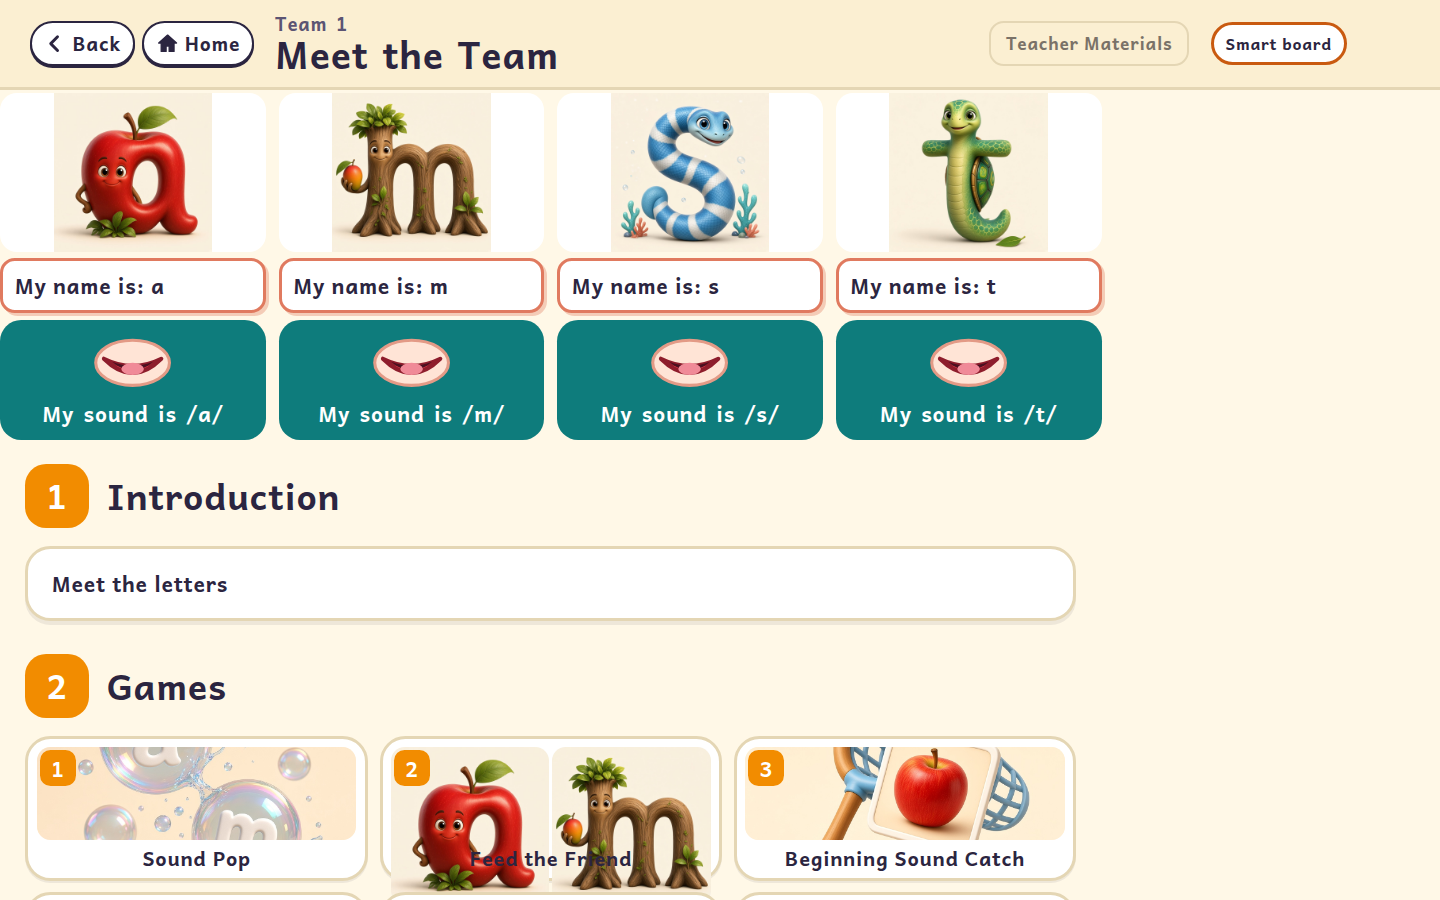
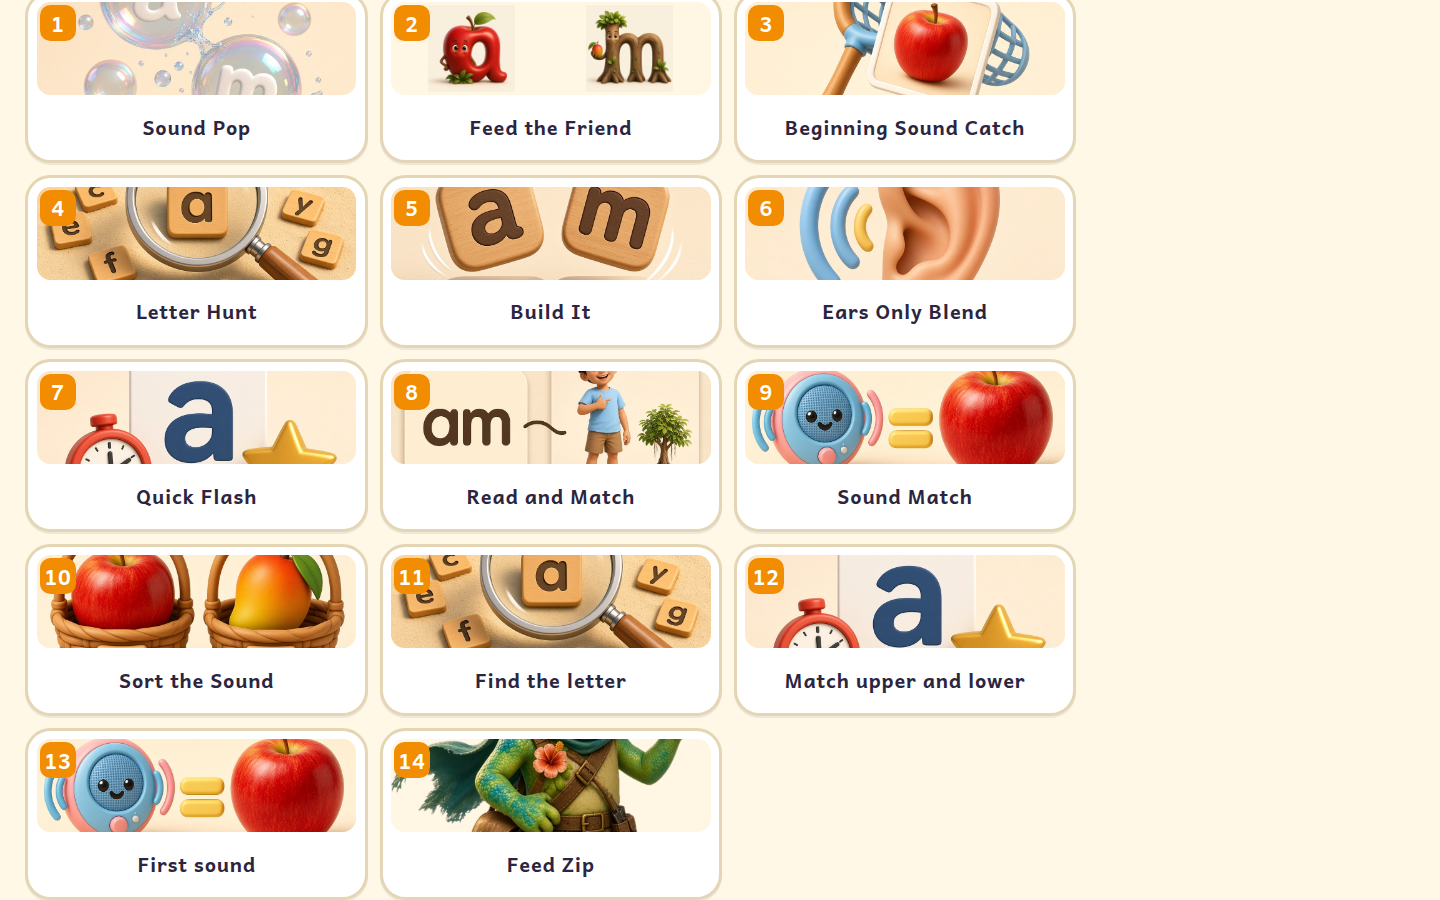
Keep Feed the Friend inside the same game-card picture box.
Addie and Manny stay contained above the title, and every game card in the grid is the same size.

diff --git a/styles.css b/styles.css
@@ -2652,11 +2652,14 @@ html.teach .u5step .itext{font-size:32px}
   .fs-home.gridhome .mwrap > .hbanner .grownwrap{position:static;transform:none;max-width:none;margin-left:auto}
   .fs-home.gridhome .mwrap > .hbanner h1{flex:1 1 100%;order:3;min-width:0;font-size:1.55rem;white-space:normal}
 }
-.gamegrid.pics{grid-template-columns:repeat(3,minmax(0,1fr))}
-.gamegrid.pics .gamecard{position:relative;flex-direction:column;align-items:stretch;text-align:center;padding:.4rem;gap:.28rem;min-height:0}
-.gamegrid.pics .gamepic{width:100%;height:4.4rem;object-fit:cover;border-radius:.65rem;background:#FFF6E3}
-.gamegrid.pics .gamepair{display:grid;grid-template-columns:1fr 1fr;gap:.15rem;width:100%;height:4.4rem}
-.gamegrid.pics .gamepair .gamepic{height:100%;object-fit:contain;background:#fff}
+.gamegrid.pics{grid-template-columns:repeat(3,minmax(0,1fr));align-items:stretch}
+.gamegrid.pics > li{display:flex;min-width:0;min-height:0}
+.gamegrid.pics .gamecard{position:relative;flex-direction:column;align-items:stretch;justify-content:flex-start;text-align:center;width:100%;height:100%;padding:.4rem;gap:.28rem;min-height:0;overflow:hidden}
+.gamegrid.pics .gamepic,.gamegrid.pics .gamepair{display:block;width:100%;height:4.4rem;min-height:4.4rem;max-height:4.4rem;flex:none;overflow:hidden;border-radius:.65rem;background:#FFF6E3;object-fit:cover}
+.gamegrid.pics .gamepair{display:grid;grid-template-columns:1fr 1fr;gap:.12rem;align-items:center;justify-items:center;padding:.15rem;box-sizing:border-box}
+.gamegrid.pics .gamepair .gamepic{width:100%;height:100%;min-width:0;min-height:0;max-width:100%;max-height:100%;object-fit:contain;background:transparent}
+.gamegrid.pics .gametxt{display:flex;align-items:center;justify-content:center;min-height:2.4em;flex:none}
+.gamegrid.pics .gametxt b{display:block;width:100%}
 .gamegrid.pics .gamenum{position:absolute;top:.55rem;left:.55rem;width:1.7rem;height:1.7rem;font-size:1rem;border-radius:.5rem}
 .gamegrid.pics .gamedone{position:absolute;top:.5rem;right:.5rem;display:inline-flex;width:1.45rem;height:1.45rem;border-radius:50%;background:#fff;color:#1f7a3a;box-shadow:0 1px 3px rgba(60,40,20,.25)}
 .gamegrid.pics .gamedone .ico{width:1.45rem;height:1.45rem}
@@ -2669,8 +2672,9 @@ html.teach .u5step .itext{font-size:32px}
 .trailpop .trailgo{margin-top:0}
 @media (max-width:700px){
   .gamegrid.pics{grid-template-columns:repeat(3,minmax(0,1fr));gap:.4rem}
-  .gamegrid.pics .gamepic{height:3.2rem}
-  .gamegrid.pics .gametxt b{font-size:.78rem}
+  .gamegrid.pics .gamepic,.gamegrid.pics .gamepair{height:3.2rem;min-height:3.2rem;max-height:3.2rem}
+  .gamegrid.pics .gametxt{min-height:2.7em}
+  .gamegrid.pics .gametxt b{font-size:.72rem;line-height:1.15}
 }
 @media (max-width:480px){
   .scrim:has(.trailpop){padding:0;align-items:stretch}
